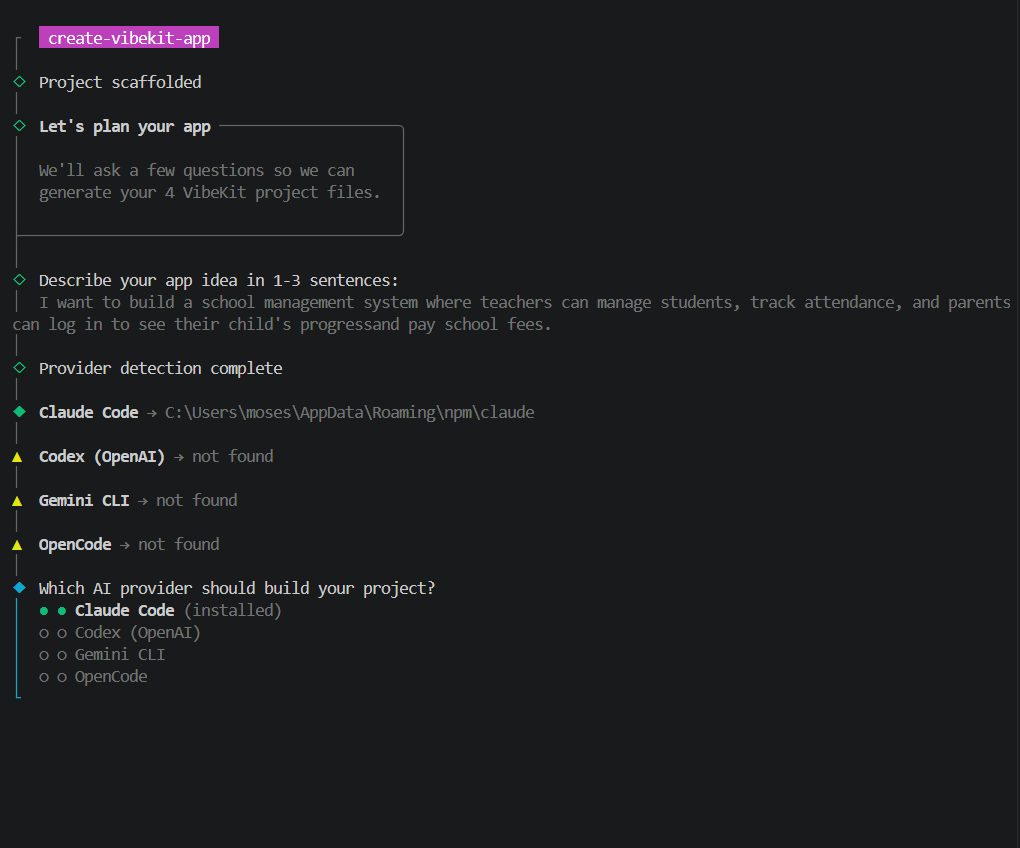
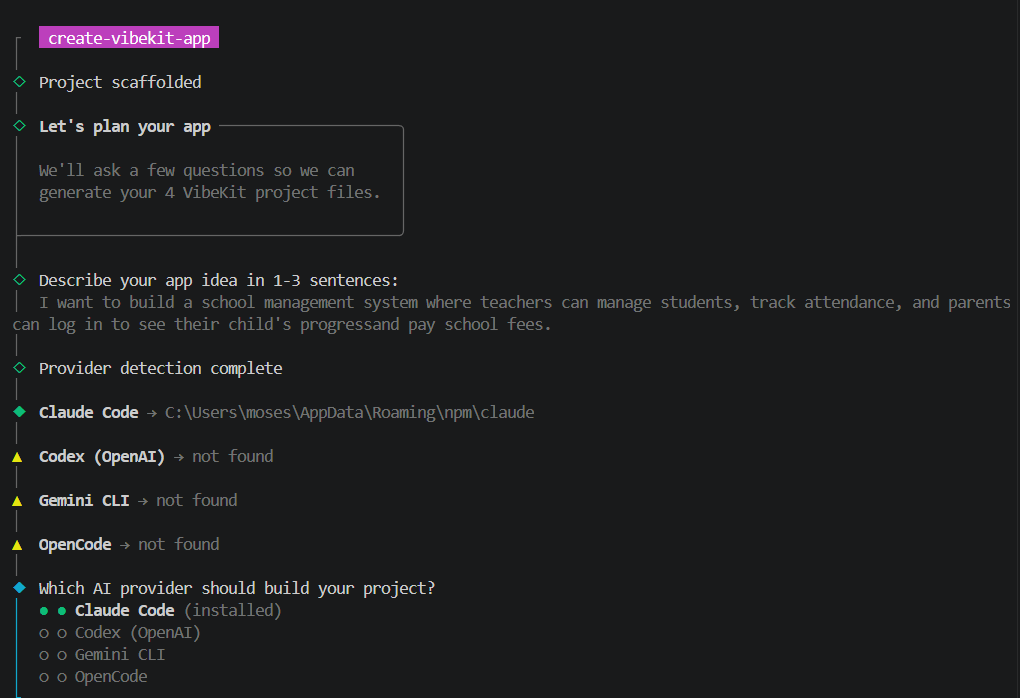
feat: update .gitignore to exclude dist directory; enhance README with create-vibekit-app details and usage instructions; update package.json for improved metadata and dependencies

Changed region(s): [[0.0, 0.0301, 1.0, 0.6017], [0.0, 0.6318, 0.4255, 0.9928]]

diff --git a/packages/create-vibekit-app/README.md b/packages/create-vibekit-app/README.md
@@ -1,0 +1,252 @@
+# create-vibekit-app
+
+[![npm version](https://img.shields.io/npm/v/create-vibekit-app)](https://www.npmjs.com/package/create-vibekit-app)
+[![license](https://img.shields.io/npm/l/create-vibekit-app)](../../LICENSE)
+[![node](https://img.shields.io/node/v/create-vibekit-app)](https://nodejs.org)
+
+CLI for scaffolding production Next.js apps using the [VibeKit Framework](https://github.com/MUKE-coder/vibekit).
+
+```bash
+npx create-vibekit-app my-app
+```
+
+---
+
+## Usage
+
+```bash
+# with npx (no install)
+npx create-vibekit-app my-app
+
+# with pnpm
+pnpm dlx create-vibekit-app my-app
+
+# project name is optional — the CLI will prompt if omitted
+npx create-vibekit-app
+```
+
+Requires **Node 18+**.
+
+---
+
+## What it does
+
+1. Scaffolds a project folder with VibeKit framework files in `.vibekit/`
+2. Asks you to describe your app idea in 1-3 sentences
+3. Detects installed AI providers (Claude Code, Codex, Gemini CLI, OpenCode)
+4. **Session 1 — Planning:** launches your chosen provider with the full VibeKit planning prompt + your idea injected. The provider interviews you and writes 4 project files to disk.
+5. **Session 2 — Build:** after you close the planning session, the CLI detects the generated files and launches a second provider session that reads `prompt.md` and starts building Phase 1.
+
+---
+
+## Package contents
+
+```
+packages/create-vibekit-app/
+│
+├── src/
+│   ├── index.ts                    entry point
+│   ├── cli.ts                      argument parsing + main orchestration
+│   │
+│   ├── steps/
+│   │   ├── 00-collect-idea.ts      prompt user for their app idea
+│   │   ├── 01-project-setup.ts     scaffold project folder + copy templates
+│   │   ├── 02-provider-detect.ts   find installed provider binaries
+│   │   ├── 03-provider-select.ts   clack select: pick a provider
+│   │   ├── 04-provider-auth.ts     check provider authentication
+│   │   ├── 05-agent-handoff.ts     inject idea → write CLAUDE.md → launch session 1
+│   │   └── 06-post-planning.ts     detect generated files → launch session 2
+│   │
+│   ├── providers/
+│   │   └── index.ts                provider registry (Claude, Codex, Gemini, OpenCode)
+│   │
+│   ├── generator/
+│   │   └── index.ts                copies templates → .vibekit/, writes .gitignore
+│   │
+│   └── utils/
+│       └── detect-binary.ts        which/where wrapper for finding CLI binaries
+│
+├── templates/                      bundled into the npm package, copied to every new project
+│   ├── master_prompt.md            tech stack rules + Prisma v7 patterns
+│   ├── jb-components.md            JB component registry reference
+│   ├── pre-deploy-review.md        pre-deploy audit checklist
+│   ├── env.example                 base .env.example (copied to project root)
+│   ├── database-guide.md           Neon + Prisma reference
+│   ├── deployment.md               Vercel, Cloudflare, DNS
+│   ├── environment-variables.md    env var setup guide
+│   ├── monetization-guide.md       Stripe, webhooks, billing
+│   ├── prompt-engineering.md       prompting techniques + rescue protocols
+│   ├── troubleshooting.md          symptom → fix playbook
+│   └── planning-prompts/           provider-specific planning prompts (CLI-internal)
+│       ├── base.md                 raw CLAUDE_PROMPT.md (source of truth)
+│       ├── claude-code.md          adapted for Claude Code / CLAUDE.md
+│       ├── codex.md                adapted for Codex / AGENTS.md
+│       ├── gemini.md               adapted for Gemini CLI / GEMINI.md
+│       └── opencode.md             adapted for OpenCode / OPENCODE.md
+│
+├── dist/                           compiled output (git-ignored, built on publish)
+├── package.json
+└── tsconfig.json
+```
+
+---
+
+## Local development
+
+### Prerequisites
+
+- Node 18+
+- pnpm 10+
+
+### Setup
+
+```bash
+# from the monorepo root
+git clone https://github.com/MUKE-coder/vibekit.git
+cd vibekit
+pnpm install
+```
+
+### Running locally
+
+```bash
+cd packages/create-vibekit-app
+
+# run against a test project (uses ts-node, no build needed)
+pnpm dev my-test-app
+
+# or from the monorepo root
+pnpm --filter create-vibekit-app dev my-test-app
+```
+
+### Type checking
+
+```bash
+# inside the package
+npx tsc --noEmit
+
+# from monorepo root
+pnpm --filter create-vibekit-app exec npx tsc --noEmit
+```
+
+### Building
+
+```bash
+pnpm build
+# compiles src/ → dist/
+```
+
+The `prepublishOnly` script runs `pnpm build` automatically before `npm publish`.
+
+---
+
+## Adding a provider
+
+Each provider is registered in [`src/providers/index.ts`](src/providers/index.ts). To add one:
+
+**1. Add a `makeProvider` entry:**
+
+```ts
+makeProvider({
+  id: "myprovider",
+  name: "My Provider",
+  binaries: ["myprovider"],           // binary names to search for
+  promptFile: "planning-prompts/myprovider.md",
+  contextFile: "MYPROVIDER.md",       // file the agent auto-reads
+  authHint: "Set MY_API_KEY env var.",
+  async checkAuth() {
+    return Boolean(process.env["MY_API_KEY"]);
+  },
+}),
+```
+
+**2. Add a planning prompt template:**
+
+Copy `templates/planning-prompts/claude-code.md` to `templates/planning-prompts/myprovider.md`. Change the title line and the `contextFile` reference (`CLAUDE.md` → `MYPROVIDER.md`).
+
+**3. Test it:**
+
+```bash
+pnpm dev my-test-app
+# select your provider and walk through the full flow
+```
+
+**4. Open a PR** describing which provider, what OS you tested on, and any rough edges.
+
+---
+
+## Syncing framework files
+
+The files in `templates/` are bundled copies of the root-level VibeKit framework docs. When the root docs change (e.g. `master_prompt.md` is updated), sync them into the templates before publishing:
+
+```bash
+# from monorepo root — copy updated framework files into CLI templates
+cp master_prompt.md packages/create-vibekit-app/templates/master_prompt.md
+cp jb-components.md packages/create-vibekit-app/templates/jb-components.md
+cp pre-deploy-review.md packages/create-vibekit-app/templates/pre-deploy-review.md
+cp prompt-engineering.md packages/create-vibekit-app/templates/prompt-engineering.md
+cp troubleshooting.md packages/create-vibekit-app/templates/troubleshooting.md
+cp database-guide.md packages/create-vibekit-app/templates/database-guide.md
+cp deployment.md packages/create-vibekit-app/templates/deployment.md
+cp environment-variables.md packages/create-vibekit-app/templates/environment-variables.md
+cp monetization-guide.md packages/create-vibekit-app/templates/monetization-guide.md
+```
+
+> The root files are the source of truth. The `templates/` copies are the distribution. Always edit the root, then sync.
+
+---
+
+## Publishing
+
+```bash
+cd packages/create-vibekit-app
+
+# preview what will be included in the package
+npm pack --dry-run
+
+# publish (builds automatically via prepublishOnly)
+npm publish
+```
+
+### Version bumps
+
+```bash
+npm version patch   # bug fix:      1.0.0 → 1.0.1
+npm version minor   # new feature:  1.0.0 → 1.1.0
+npm version major   # breaking:     1.0.0 → 2.0.0
+
+npm publish
+```
+
+---
+
+## Changelog
+
+### 1.0.0
+
+- Two-session flow: Session 1 (planning) + Session 2 (build)
+- App idea collected in terminal before launching any provider
+- User idea injected into planning prompt → written to provider context file (`CLAUDE.md` etc.)
+- Session 2 auto-detects generated files (`project-description.md`, `project-phases.md`, `design-style-guide.md`, `prompt.md`) and launches build session
+- Framework files placed in `.vibekit/` (gitignored) instead of project root
+- `.gitignore` written automatically on scaffold
+- Provider auth check: credential file detection + env var fallback
+- `@clack/prompts` terminal UI throughout
+- Provider support: Claude Code (tested), Codex / Gemini CLI / OpenCode (wired, untested)
+
+---
+
+## Known limitations
+
+- Tested on **Windows 11** only. macOS and Linux are untested — auth credential paths may differ.
+- **Claude Code** is the only provider with verified end-to-end testing.
+- Session 2 only starts if all 4 planning files are present. If the planning session is cut short, re-run the CLI.
+- No watch mode or incremental rebuild — run `pnpm build` manually before testing the compiled output.
+
+---
+
+## Credits
+
+Built on the [VibeKit Framework](https://github.com/MUKE-coder/vibekit) by [JB (Muke Johnbaptist)](https://jb.desishub.com) · [Desishub Technologies](https://desishub.com).
+
+MIT License.

diff --git a/README.md b/README.md
@@ -1,4 +1,6 @@
-# create-vibekit-app
+# VIBEKIT CLI
+
+![VibeKit CLI](/assets/screenshots/vibekit-scafforld.png)
 
 > A CLI that automates the [VibeKit Framework](https://github.com/MUKE-coder/vibekit) workflow — plan your app with an AI agent, generate 4 project files, then build Phase 1 automatically.
 
@@ -69,12 +71,12 @@ Your app idea is injected into the full VibeKit planning prompt and written to `
 
 Then it generates **4 project files** directly in your project:
 
-| File | Purpose |
-|---|---|
-| `project-description.md` | Complete app spec — features, data model, pages, integrations |
-| `project-phases.md` | Phase-by-phase build blueprint with checkboxes |
-| `design-style-guide.md` | Fully customized design system (colors, typography, components) |
-| `prompt.md` | The build prompt for Session 2 |
+| File                     | Purpose                                                         |
+| ------------------------ | --------------------------------------------------------------- |
+| `project-description.md` | Complete app spec — features, data model, pages, integrations   |
+| `project-phases.md`      | Phase-by-phase build blueprint with checkboxes                  |
+| `design-style-guide.md`  | Fully customized design system (colors, typography, components) |
+| `prompt.md`              | The build prompt for Session 2                                  |
 
 Close the provider when planning is done.
 
@@ -147,12 +149,12 @@ After Session 1 completes, the agent also writes:
 
 ## Provider support
 
-| Provider | Detect | Auth check | Tested |
-|---|---|---|---|
-| Claude Code | Yes | Credential file + `ANTHROPIC_API_KEY` | Yes |
-| Codex (OpenAI) | Yes | `OPENAI_API_KEY` | No |
-| Gemini CLI | Yes | Credential file + `GOOGLE_API_KEY` | No |
-| OpenCode | Yes | `OPENAI_API_KEY` / `ANTHROPIC_API_KEY` | No |
+| Provider       | Detect | Auth check                             | Tested |
+| -------------- | ------ | -------------------------------------- | ------ |
+| Claude Code    | Yes    | Credential file + `ANTHROPIC_API_KEY`  | Yes    |
+| Codex (OpenAI) | Yes    | `OPENAI_API_KEY`                       | No     |
+| Gemini CLI     | Yes    | Credential file + `GOOGLE_API_KEY`     | No     |
+| OpenCode       | Yes    | `OPENAI_API_KEY` / `ANTHROPIC_API_KEY` | No     |
 
 If you test on a provider that isn't marked Yes, please open an issue or PR with your findings.
 
@@ -162,23 +164,23 @@ If you test on a provider that isn't marked Yes, please open an issue or PR with
 
 Every project built with this framework uses:
 
-| Layer | Technology |
-|---|---|
-| Framework | Next.js 16 (App Router) |
-| Language | TypeScript 5.9 |
-| Database | Neon Serverless Postgres |
-| ORM | Prisma v7 |
-| Auth | Better Auth |
-| Data fetching | React Query + Fetch API |
-| Validation | Zod + React Hook Form |
-| Styling | Tailwind CSS v4 + shadcn/ui |
-| PDF | @react-pdf/renderer |
-| Excel | xlsx |
-| Email | Resend + React Email |
-| Payments | Stripe |
-| File storage | Cloudflare R2 / UploadThing |
-| Deployment | Vercel + Cloudflare |
-| Components | JB Component Registry |
+| Layer         | Technology                  |
+| ------------- | --------------------------- |
+| Framework     | Next.js 16 (App Router)     |
+| Language      | TypeScript 5.9              |
+| Database      | Neon Serverless Postgres    |
+| ORM           | Prisma v7                   |
+| Auth          | Better Auth                 |
+| Data fetching | React Query + Fetch API     |
+| Validation    | Zod + React Hook Form       |
+| Styling       | Tailwind CSS v4 + shadcn/ui |
+| PDF           | @react-pdf/renderer         |
+| Excel         | xlsx                        |
+| Email         | Resend + React Email        |
+| Payments      | Stripe                      |
+| File storage  | Cloudflare R2 / UploadThing |
+| Deployment    | Vercel + Cloudflare         |
+| Components    | JB Component Registry       |
 
 ---
 
@@ -215,4 +217,4 @@ MIT — use freely, build boldly.
 
 ---
 
-*VibeKit Framework by [JB (Muke Johnbaptist)](https://jb.desishub.com) · CLI by the community*
+_VibeKit Framework by [JB (Muke Johnbaptist)](https://jb.desishub.com) · CLI by the community_